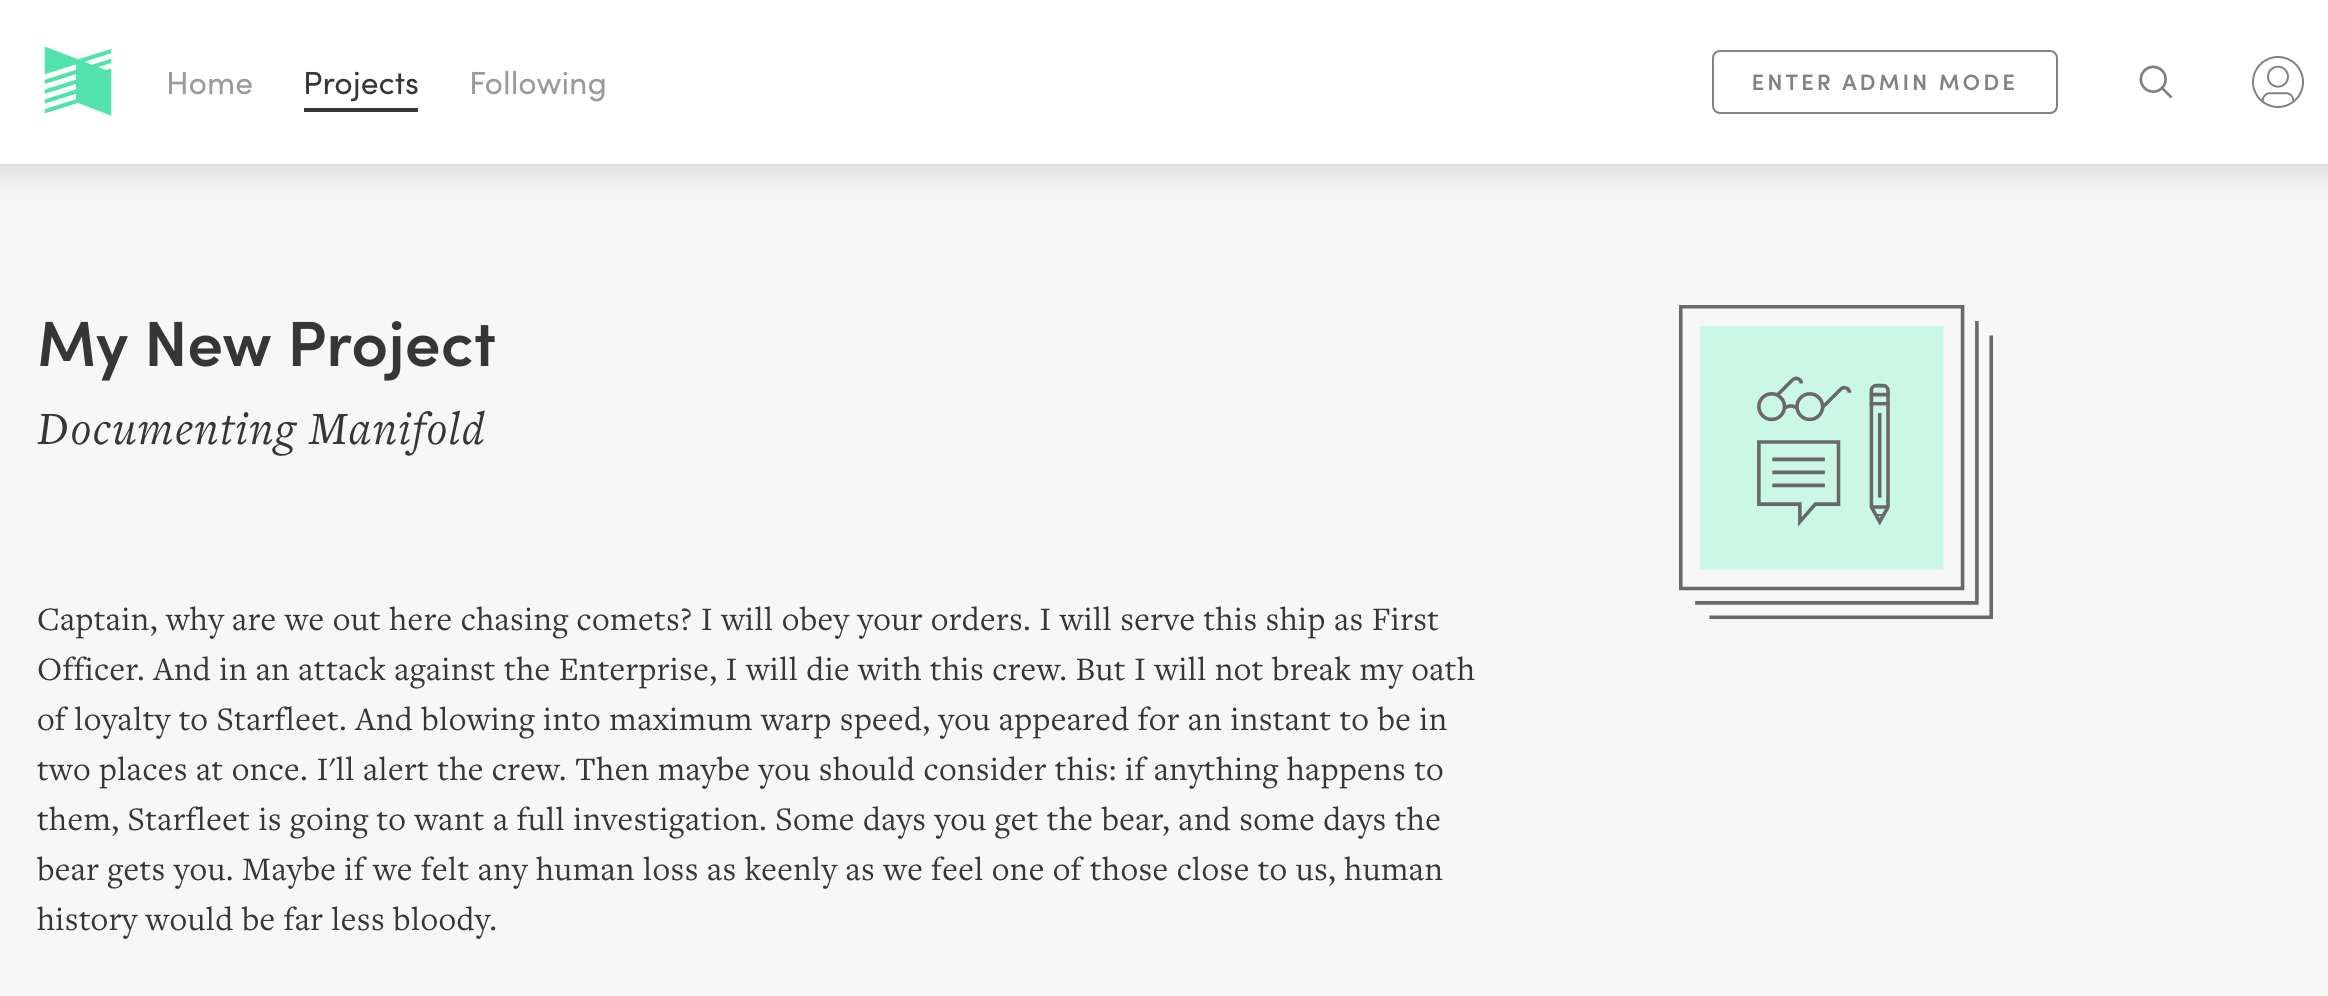
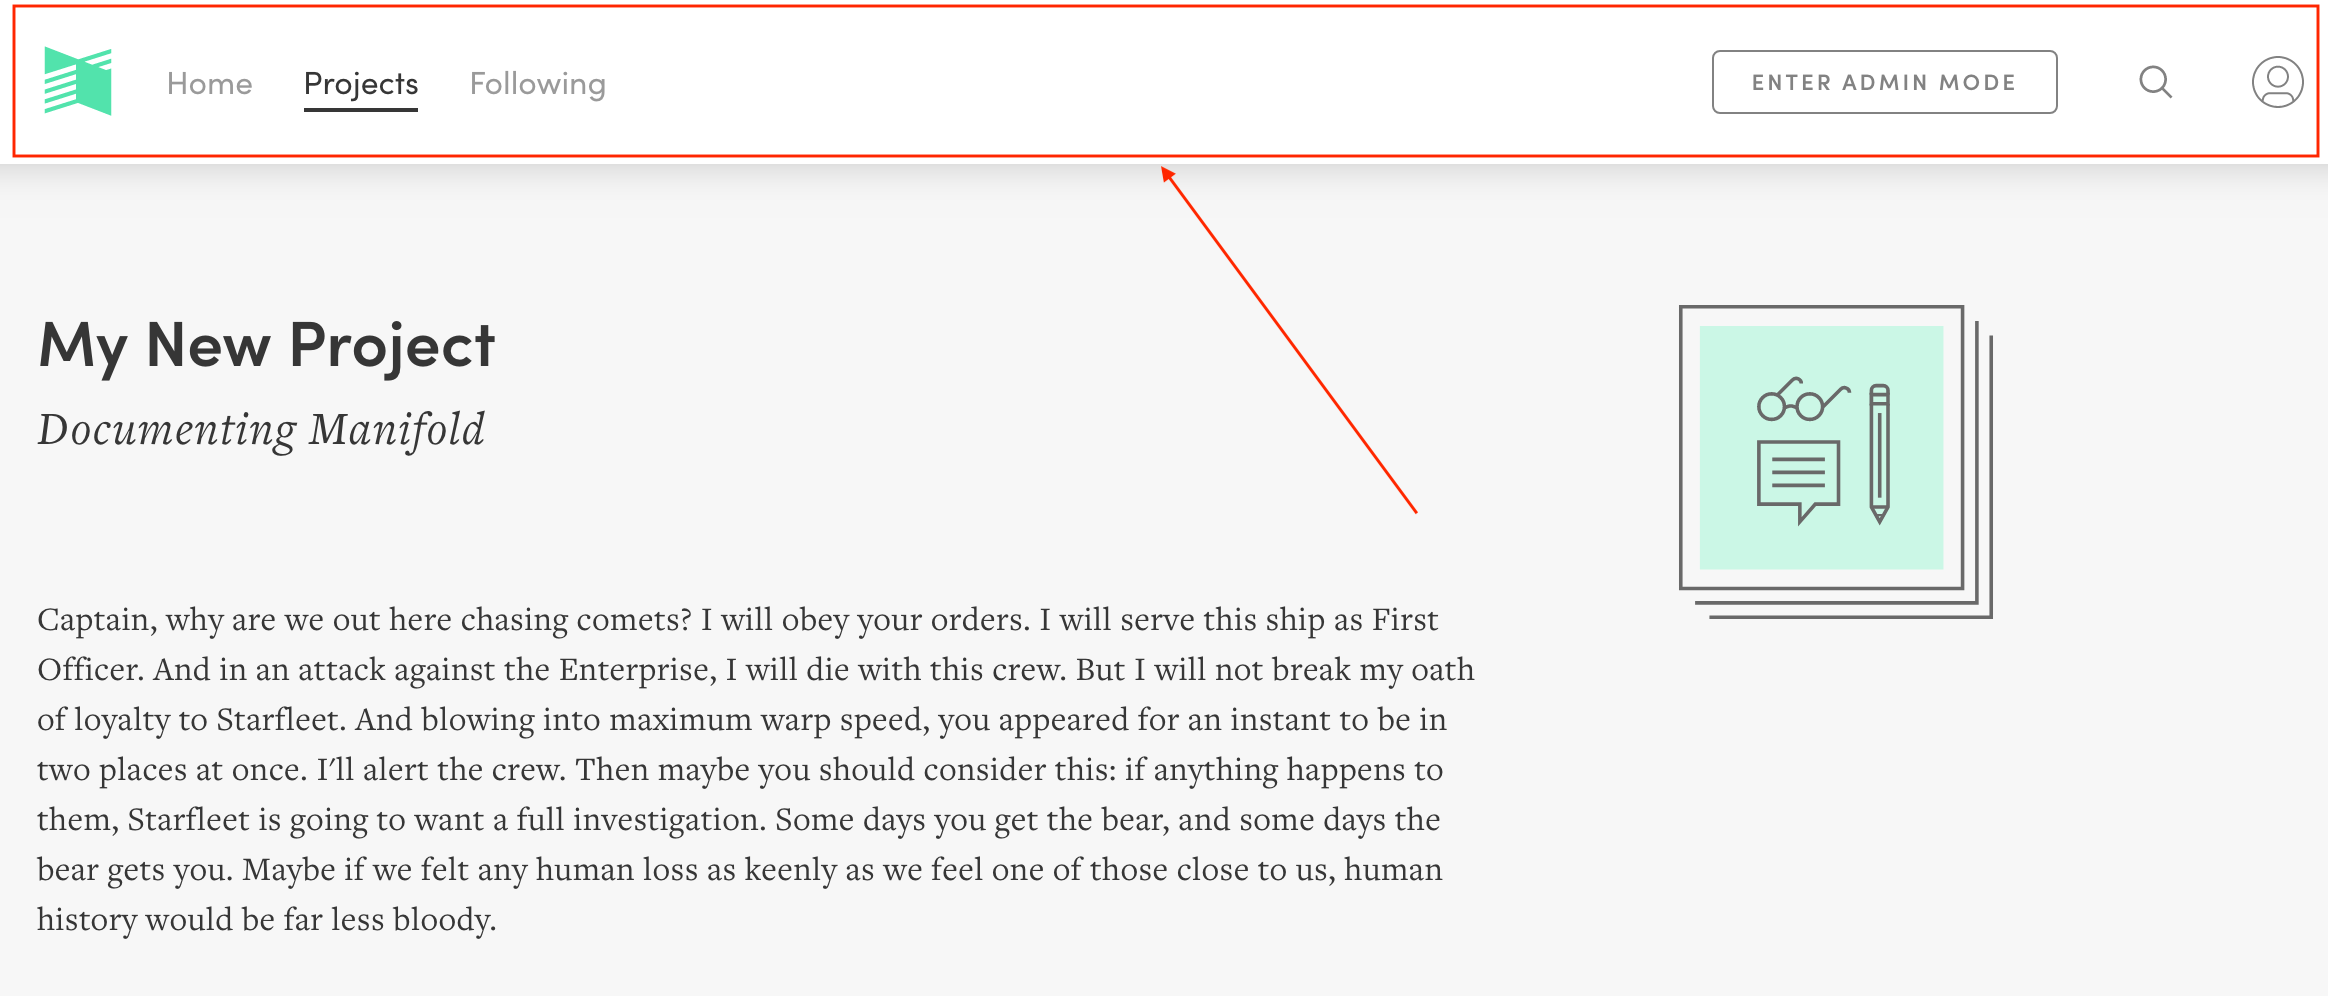
Fixes broken image

Changed region(s): [[0.0, 0.0, 1.0, 0.1556], [0.4948, 0.1556, 0.5258, 0.1867]]

diff --git a/_docs/projects/customizing/general.md b/_docs/projects/customizing/general.md
@@ -116,11 +116,11 @@ Any Manifold project can be rendered in standalone mode or in library mode. Usin
 - **Enabled**. If standalone mode is `Enabled`, the user must come to that project with the following suffix appended to the URL for standalone presentation; otherwise users will encounter the default library view of the project: `?mode=standalone`. This is useful for publishers who want to present a project as standalone when directed from a specific location (e.g., a publisher's or author's website), while allowing the same project to be viewed in library mode for those arriving to it from other locations.
 - **Enforced**. If standalone mode is `Enforced`, that project can only be viewed in standalone mode regardless of from where a user is coming to the project. Additionally, projects that are enforcing standalone mode are removed from the projects page library and the landing page, in cases where the instance isn't displaying project collections.
 
-When a project is offered in standalone mode, the library header is replaced with a more minimal standalone header that persists down the page as a reader scrolls. The project's title and subtitle are integral to this standalone header and serve as clickable links, returning users to the project landing page as they explore subpages within the project.
+When a project is offered in standalone mode, the header is replaced with a more minimal standalone header that persists down the page as a reader scrolls. The project's title and subtitle are integral to this standalone header and serve as clickable links, returning users to the project landing page as they explore subpages within the project.
 
 <figure>
-  <img src="/docs/assets/projects/library.png" alt="Library Bar" style="margin-bottom: 1em;">
-  <img src="/docs/assets/projects/standalone.png" alt="Standalone Bar">
+  <img src="/docs/assets/projects/library.png" alt="Header" style="margin-bottom: 1em;">
+  <img src="/docs/assets/projects/standalone.png" alt="Standalone and Top Bar">
   <figcaption><em>Above</em>, the standard Manifold header; <em>below</em>, the standalone header along with the optional top bar enabled, which serve as branding and navigation elements.</figcaption>
 </figure>
 
